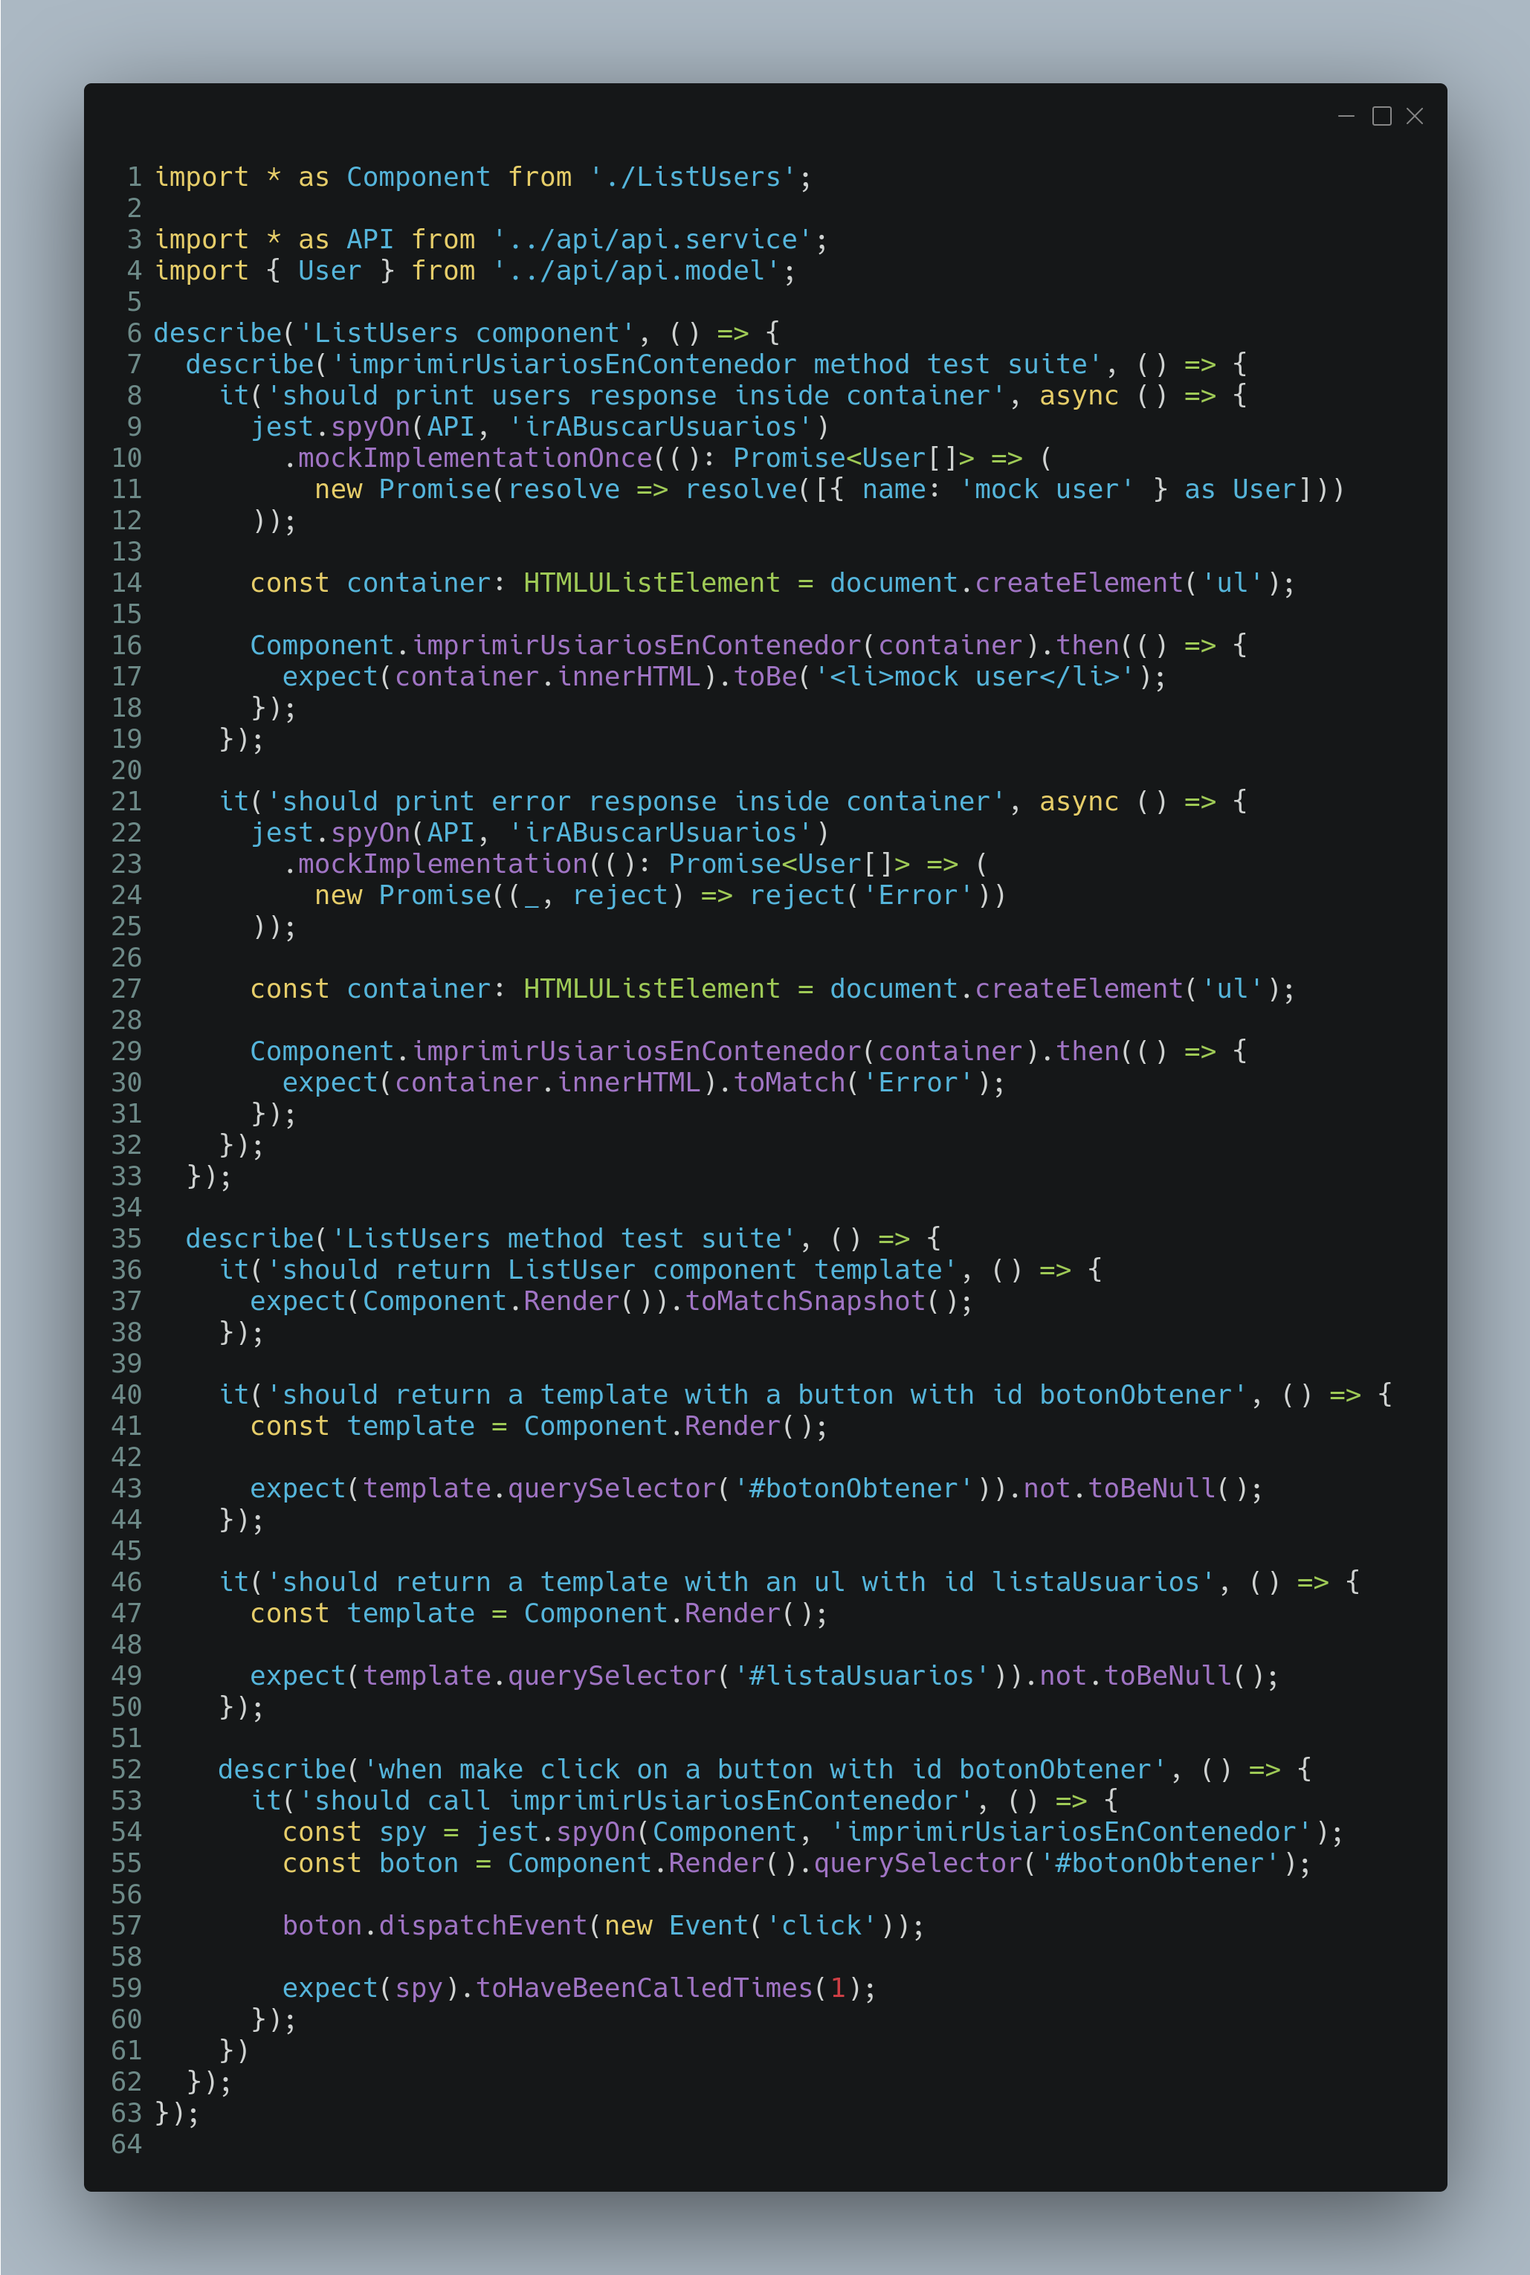
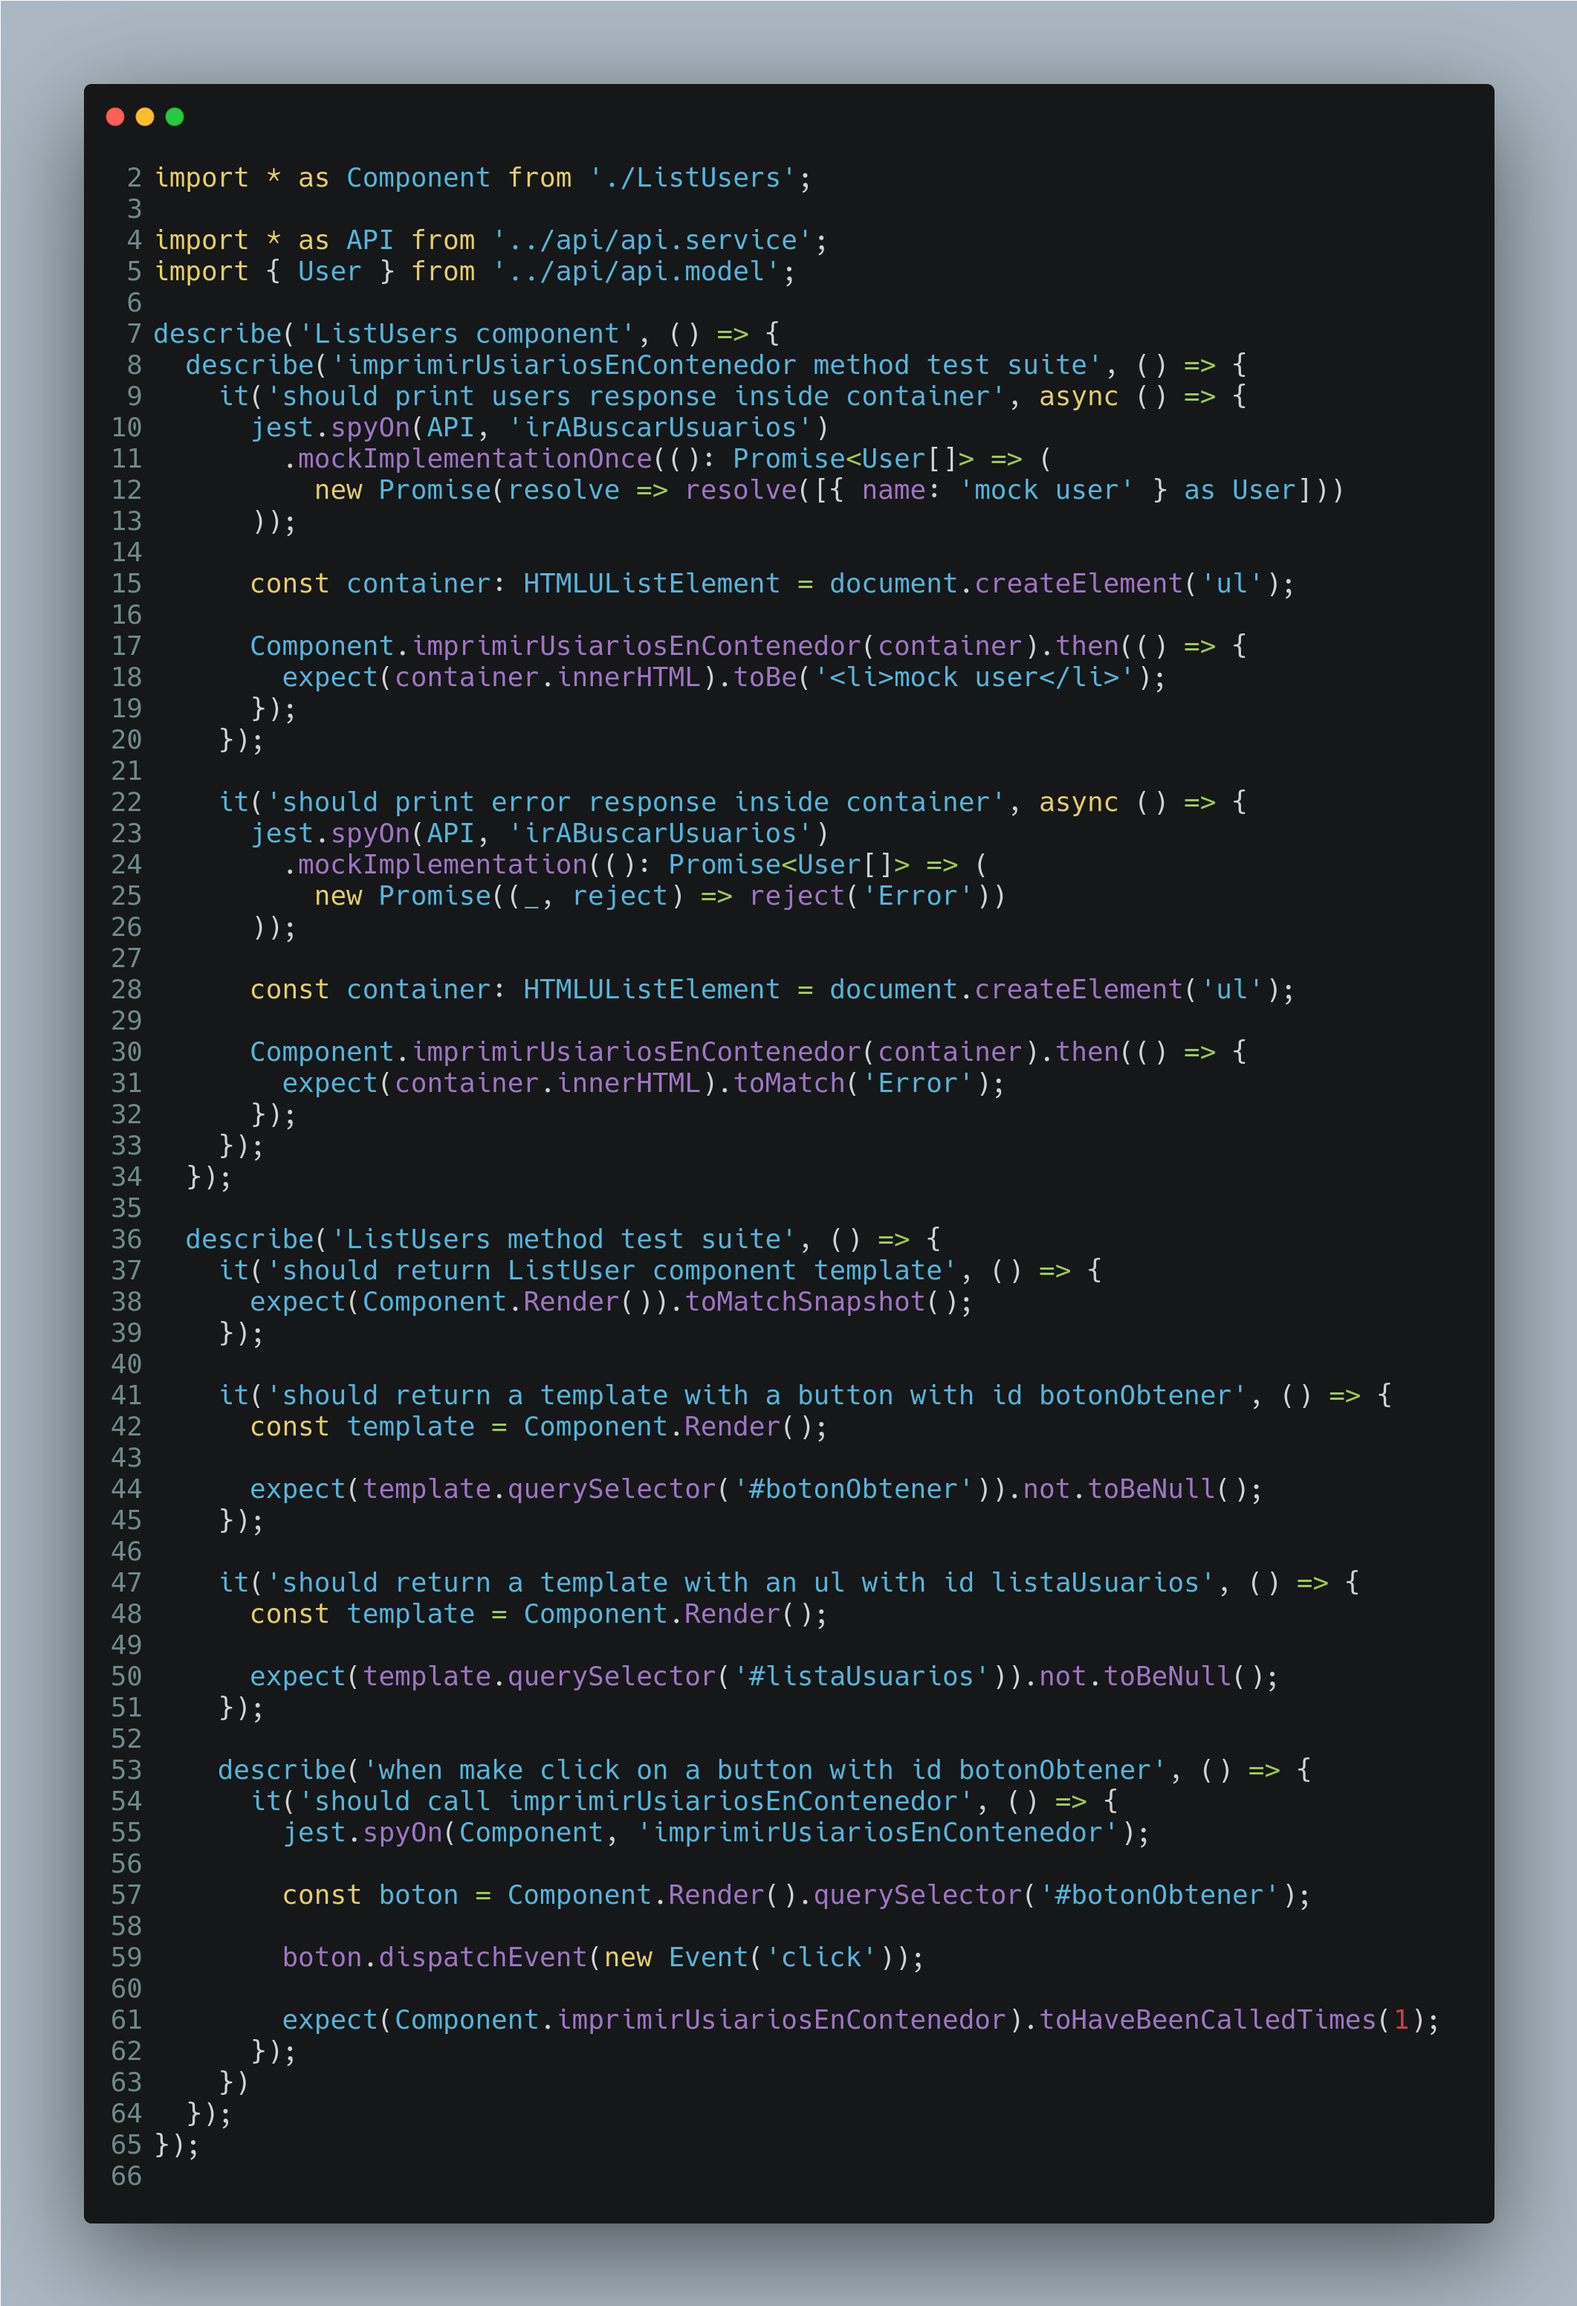
fix last test case

diff --git a/src/components/ListUsers.test.ts b/src/components/ListUsers.test.ts
@@ -51,12 +51,13 @@ describe('ListUsers component', () => {
 
     describe('when make click on a button with id botonObtener', () => {
       it('should call imprimirUsiariosEnContenedor', () => {
-        const spy = jest.spyOn(Component, 'imprimirUsiariosEnContenedor');
+        jest.spyOn(Component, 'imprimirUsiariosEnContenedor');
+
         const boton = Component.Render().querySelector('#botonObtener');
 
         boton.dispatchEvent(new Event('click'));
-  
-        expect(spy).toHaveBeenCalledTimes(1);
+
+        expect(Component.imprimirUsiariosEnContenedor).toHaveBeenCalledTimes(1);
       });
     })
   });

diff --git a/src/components/ListUsers.ts b/src/components/ListUsers.ts
@@ -34,7 +34,7 @@ export const Render = (): Element => {
 
   const botonObtenerUsuarios: HTMLButtonElement =  container.querySelector(`#${idBoton}`);
   const listContainer: HTMLUListElement = container.querySelector(`#${idList}`);
-  botonObtenerUsuarios.addEventListener('click', () => imprimirUsiariosEnContenedor(listContainer));
+  botonObtenerUsuarios.addEventListener('click', () => exports.imprimirUsiariosEnContenedor(listContainer));
 
   return container;
 };

diff --git a/src/api/api.model.ts b/src/api/api.model.ts
@@ -2,6 +2,7 @@ interface Geo {
   lat: string;
   lng: string;
 }
+
 interface Address {
   street: string;
   suite: string;

diff --git a/README.md b/README.md
@@ -80,6 +80,10 @@ El código base para este ejemplo lo encuentra en la rama `master` del repositor
 
 ![Décimo Cuarto Paso](./tutorial/carbon-11.png)
 
+16. Por esas cosas mágicas de Javascript hay que hacer un pequeño cambio de código para que el último caso de prueba se cumpla. Modifique el archivo `src/components/ListUsers.ts`:
+
+![Décimo Quinto Paso](./tutorial/carbon-12.png)
+
 ### Development:
 Run the following command for development:
 ```
